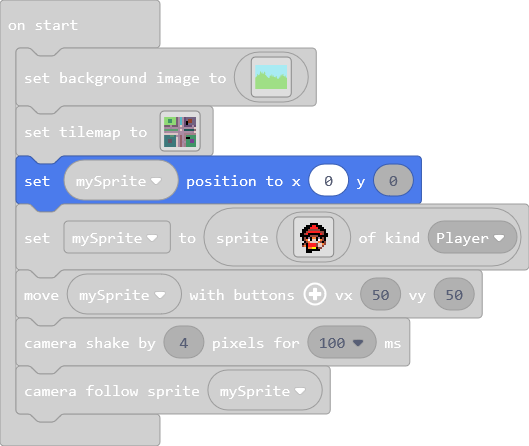
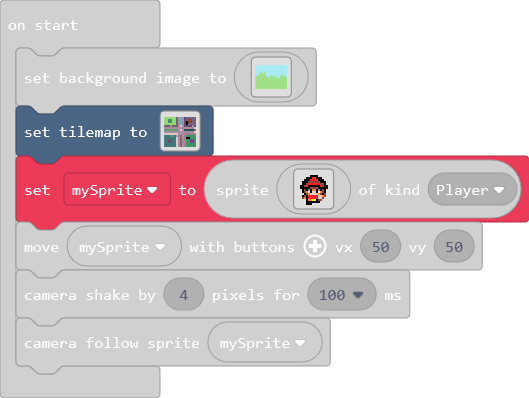
Update main.blocks, main.ts

diff --git a/main.ts b/main.ts
@@ -19,7 +19,6 @@ namespace myTiles {
 . . . . . . . . . . . . . . . . 
 `
 }
-let mySprite: Sprite = null
 scene.setBackgroundImage(img`
 9 9 9 9 9 9 9 9 9 9 9 9 9 9 9 9 9 9 9 9 9 9 9 9 9 9 9 9 9 9 9 9 9 9 9 9 9 9 9 9 9 9 9 9 9 9 9 9 9 9 9 9 9 9 9 9 9 9 9 9 9 9 9 9 9 9 9 9 9 9 9 9 9 9 9 9 9 9 9 9 9 9 9 9 9 9 9 9 9 9 9 9 9 9 9 9 9 9 9 9 9 9 9 9 9 9 9 9 9 9 9 9 9 9 9 9 9 9 9 9 9 9 9 9 9 9 9 9 9 9 9 9 9 9 9 9 9 9 9 9 9 9 9 9 9 9 9 9 9 9 9 9 9 9 9 9 9 9 9 9 
 9 9 9 9 9 9 9 9 9 9 9 9 9 9 9 9 9 9 9 9 9 9 9 9 9 9 9 9 9 9 9 9 9 9 9 9 9 9 9 9 9 9 9 9 9 9 9 9 9 9 9 9 9 9 9 9 9 9 9 9 9 9 9 9 9 9 9 9 9 9 9 9 9 9 9 9 9 9 9 9 9 9 9 9 9 9 9 9 9 9 9 9 9 9 9 9 9 9 9 9 9 9 9 9 9 9 9 9 9 9 9 9 9 9 9 9 9 9 9 9 9 9 9 9 9 9 9 9 9 9 9 9 9 9 9 9 9 9 9 9 9 9 9 9 9 9 9 9 9 9 9 9 9 9 9 9 9 9 9 9 
@@ -165,8 +164,7 @@ tiles.setTilemap(tiles.createTilemap(
             [myTiles.tile0,sprites.castle.tilePath5,sprites.castle.tileGrass2,sprites.castle.tileGrass3,sprites.castle.tileDarkGrass3,sprites.castle.tileDarkGrass2,sprites.castle.tileGrass1,sprites.builtin.forestTiles0,sprites.builtin.crowd7,sprites.builtin.coral2,sprites.builtin.oceanSand11,sprites.dungeon.floorLight0,sprites.dungeon.doorLockedWest,sprites.dungeon.doorClosedEast,sprites.dungeon.doorOpenSouth,sprites.dungeon.darkGroundSouthWest1,sprites.builtin.forestTiles11,sprites.builtin.forestTiles7,sprites.builtin.forestTiles16,sprites.builtin.forestTiles26,sprites.builtin.forestTiles24,sprites.castle.rock2,sprites.castle.shrub,sprites.castle.rock0,sprites.dungeon.doorOpenEast,sprites.builtin.oceanDepths9,sprites.builtin.oceanDepths11,sprites.dungeon.collectibleRedCrystal,sprites.dungeon.collectibleInsignia,sprites.dungeon.collectibleBlueCrystal,sprites.dungeon.greenOuterNorthWest,sprites.dungeon.greenOuterEast2,sprites.dungeon.greenOuterSouth2,sprites.dungeon.purpleInnerNorthWest,sprites.dungeon.purpleInnerSouthWest,sprites.dungeon.purpleInnerNorthEast,sprites.dungeon.purpleInnerSouthEast,sprites.vehicle.roadVertical,sprites.vehicle.roadHorizontal,sprites.vehicle.roadTurn3,sprites.vehicle.roadTurn4,sprites.vehicle.roadIntersection4,sprites.vehicle.roadIntersection2,sprites.dungeon.chestOpen],
             TileScale.Sixteen
         ))
-mySprite.setPosition(0, 0)
-mySprite = sprites.create(img`
+let mySprite = sprites.create(img`
 . . . . . . . . . . . . . . . . 
 . . . . . . f f f f . . . . . . 
 . . . . f f f 2 2 f f f . . . . 
